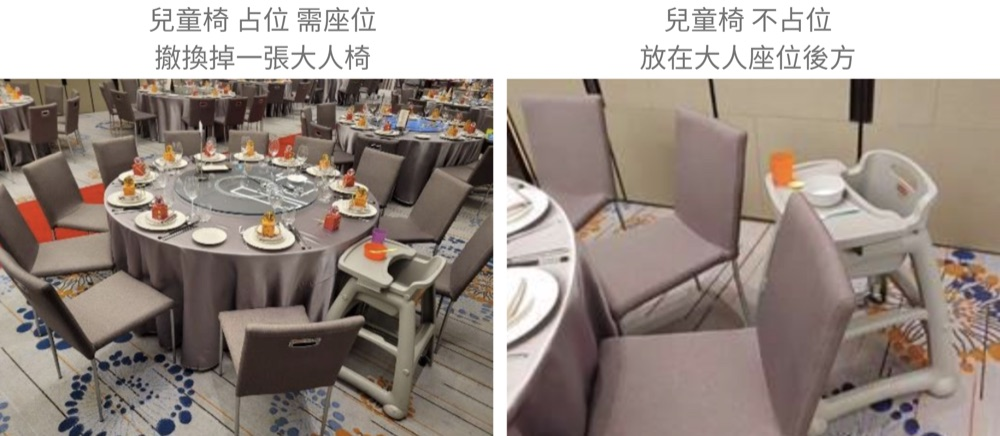
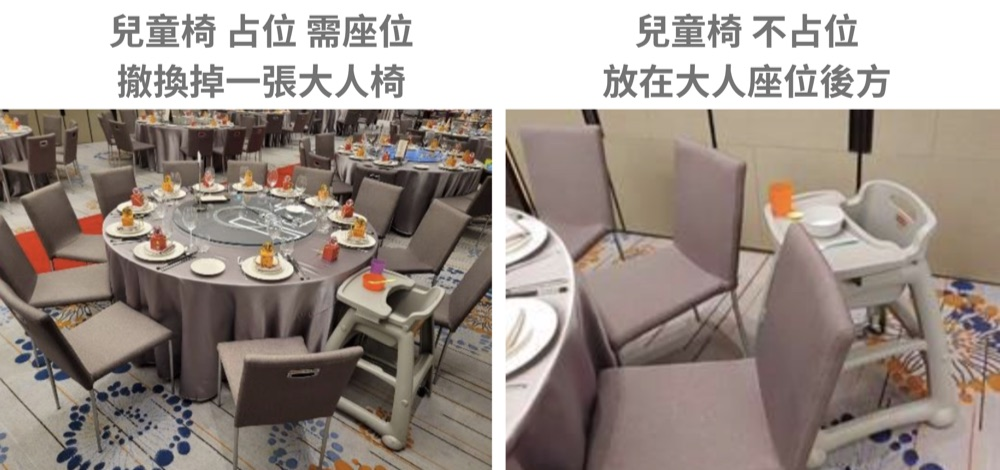
換上最新兒童椅對照圖、時間與中文之間的間距改由 CSS 控制

diff --git a/index.html b/index.html
@@ -323,7 +323,8 @@ img{ max-width:100%; display:block; }
   text-align:center; color:var(--rouge); margin:.9rem 0 1.1rem;
 }
 /* Cormorant 預設是舊體數字、字面又比中文矮，時間段要開 lining 數字並放大才會一樣大 */
-.card__hero-en{ font-size:1.24em; font-variant-numeric:lining-nums tabular-nums; }
+.card__hero-en{ font-size:1.24em; letter-spacing:0; font-variant-numeric:lining-nums tabular-nums; }
+.card__hero-gap{ display:inline-block; width:.28em; }   /* 數字與中文之間的間距，直接控制 */
 .card__rule{ height:1px; background:var(--wash); margin:0 0 1.15rem; }
 
 /* label／內容兩欄對齊，行距收緊，一屏看得完 */
@@ -619,7 +620,7 @@ select{
 
           <figure class="seatfig">
             <figcaption>兒童椅擺放方式參考</figcaption>
-            <img src="photos/kid-seat.jpg" width="1000" height="436" loading="lazy" decoding="async"
+            <img src="photos/kid-seat.jpg" width="1000" height="470" loading="lazy" decoding="async"
                  alt="兒童椅擺放方式對照：占位（需座位）須撤換掉一張大人椅；不占位則放在大人座位後方">
           </figure>
 
@@ -716,6 +717,13 @@ const cards = [];
 if (CONFIG.ceremony) cards.push(CONFIG.ceremony);
 if (CONFIG.banquet)  cards.push(CONFIG.banquet);
 
+/* 時間段（拉丁）要放大才跟中文等高；中間的空白留在 span 外，避免連空格一起被放大 */
+function heroHTML(str){
+  const m = String(str).match(/^([\x20-\x7E]+?)\s*([^\x00-\x7F][\s\S]*)$/);
+  if (!m) return esc(str);
+  return `<span class="card__hero-en">${esc(m[1])}</span><span class="card__hero-gap"></span>${esc(m[2])}`;
+}
+
 const PIN = '<svg viewBox="0 0 24 24" fill="none" stroke="currentColor" stroke-width="1.6" aria-hidden="true">'
           + '<path d="M12 21s7-6.2 7-11a7 7 0 1 0-14 0c0 4.8 7 11 7 11z"/><circle cx="12" cy="10" r="2.5"/></svg>';
 
@@ -723,7 +731,7 @@ $('dCards').innerHTML = cards.map(c => `
   <article class="card">
     <h3 class="card__zh">【 ${esc(c.zh)} 】</h3>
     <p class="card__en">${esc(c.en)}</p>
-    <p class="card__hero">${esc(c.hero).replace(/^([\x20-\x7E]+?)(?=[^\x00-\x7F])/, '<span class="card__hero-en">$1</span>')}</p>
+    <p class="card__hero">${heroHTML(c.hero)}</p>
     <div class="card__rule"></div>
     <dl class="card__facts">
       <dt>地點</dt><dd>${esc(c.place)}<span class="card__addr">${esc(c.addr)}</span></dd>
